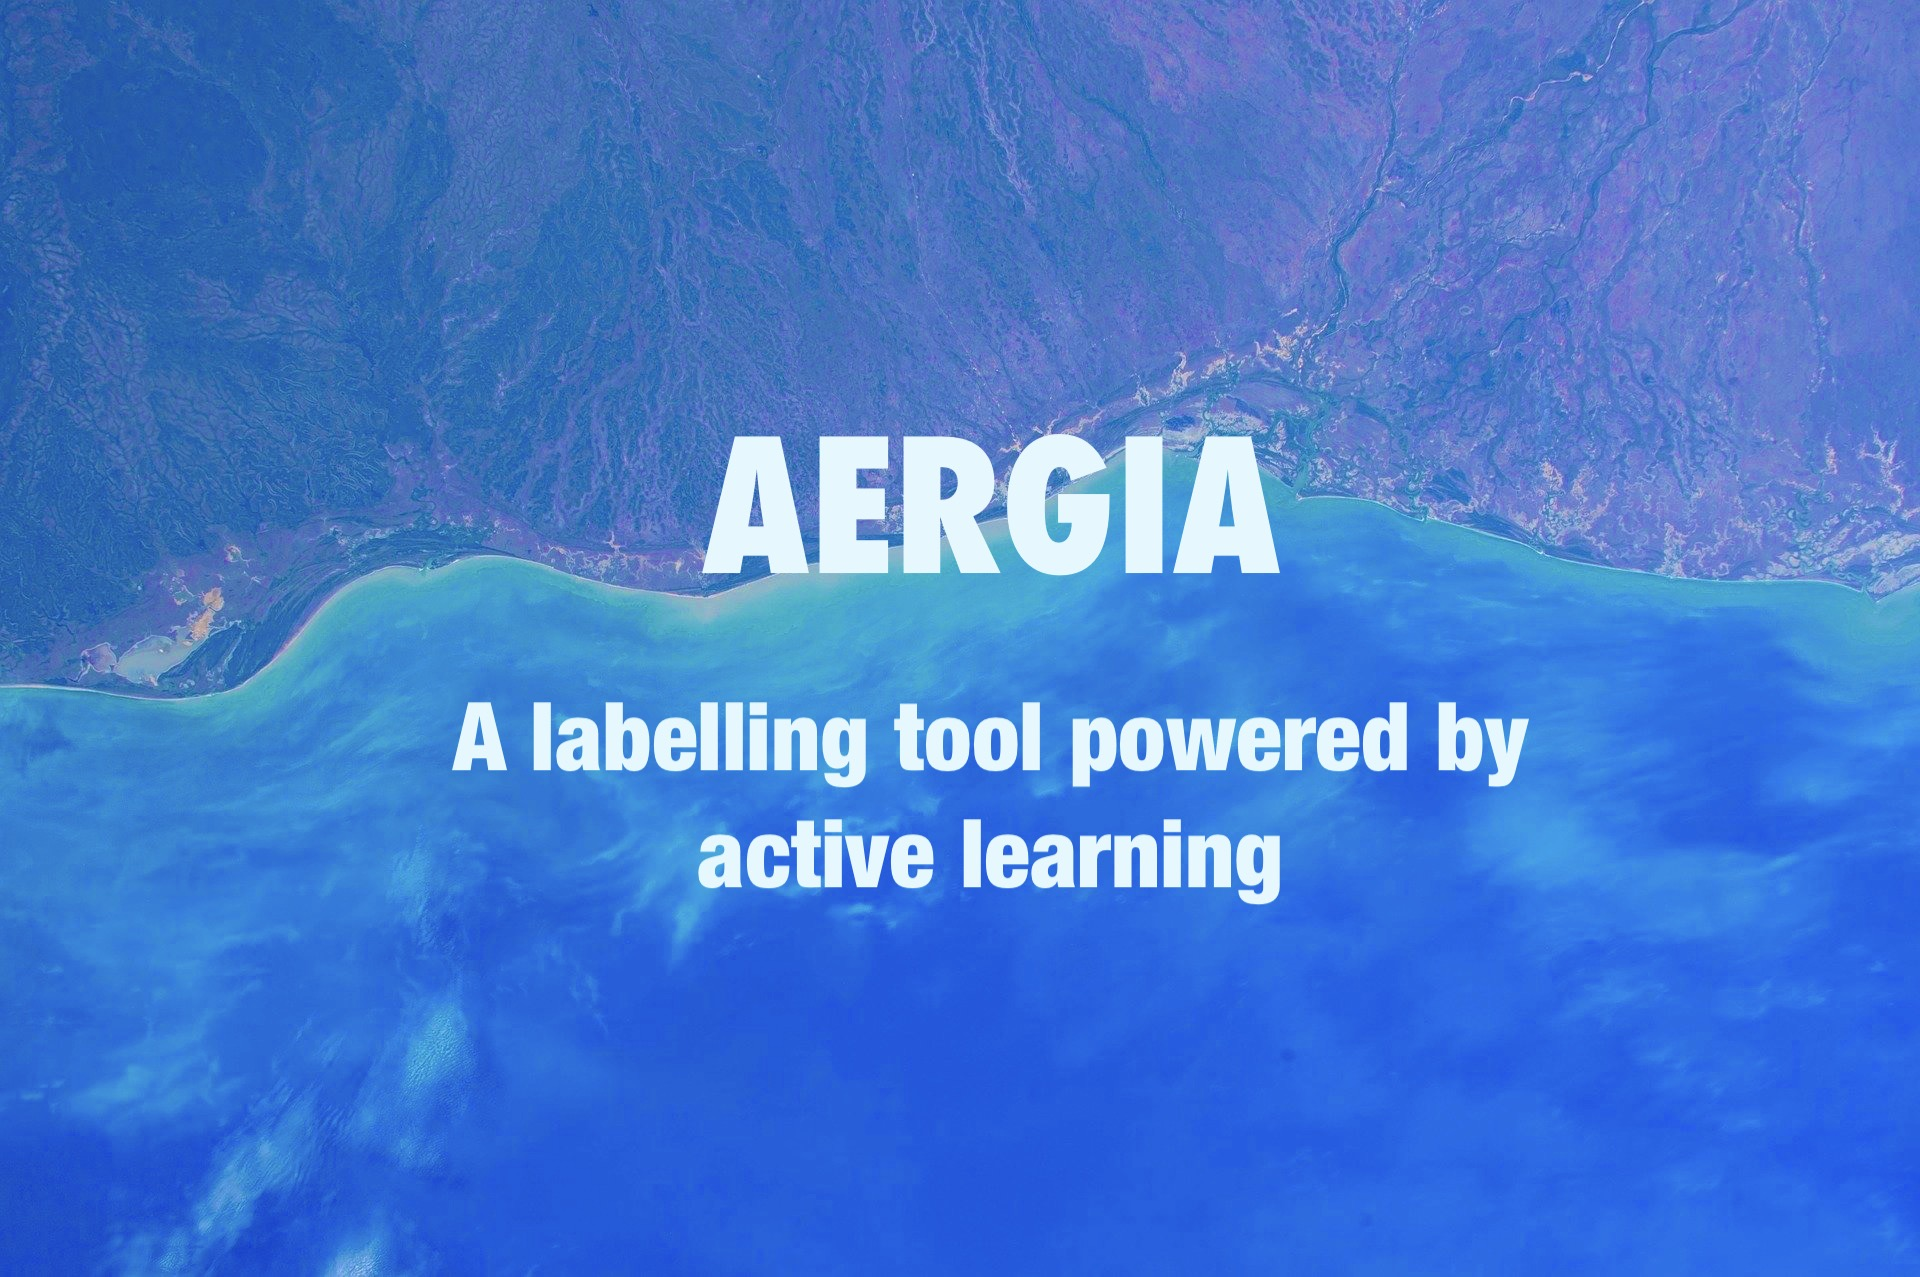
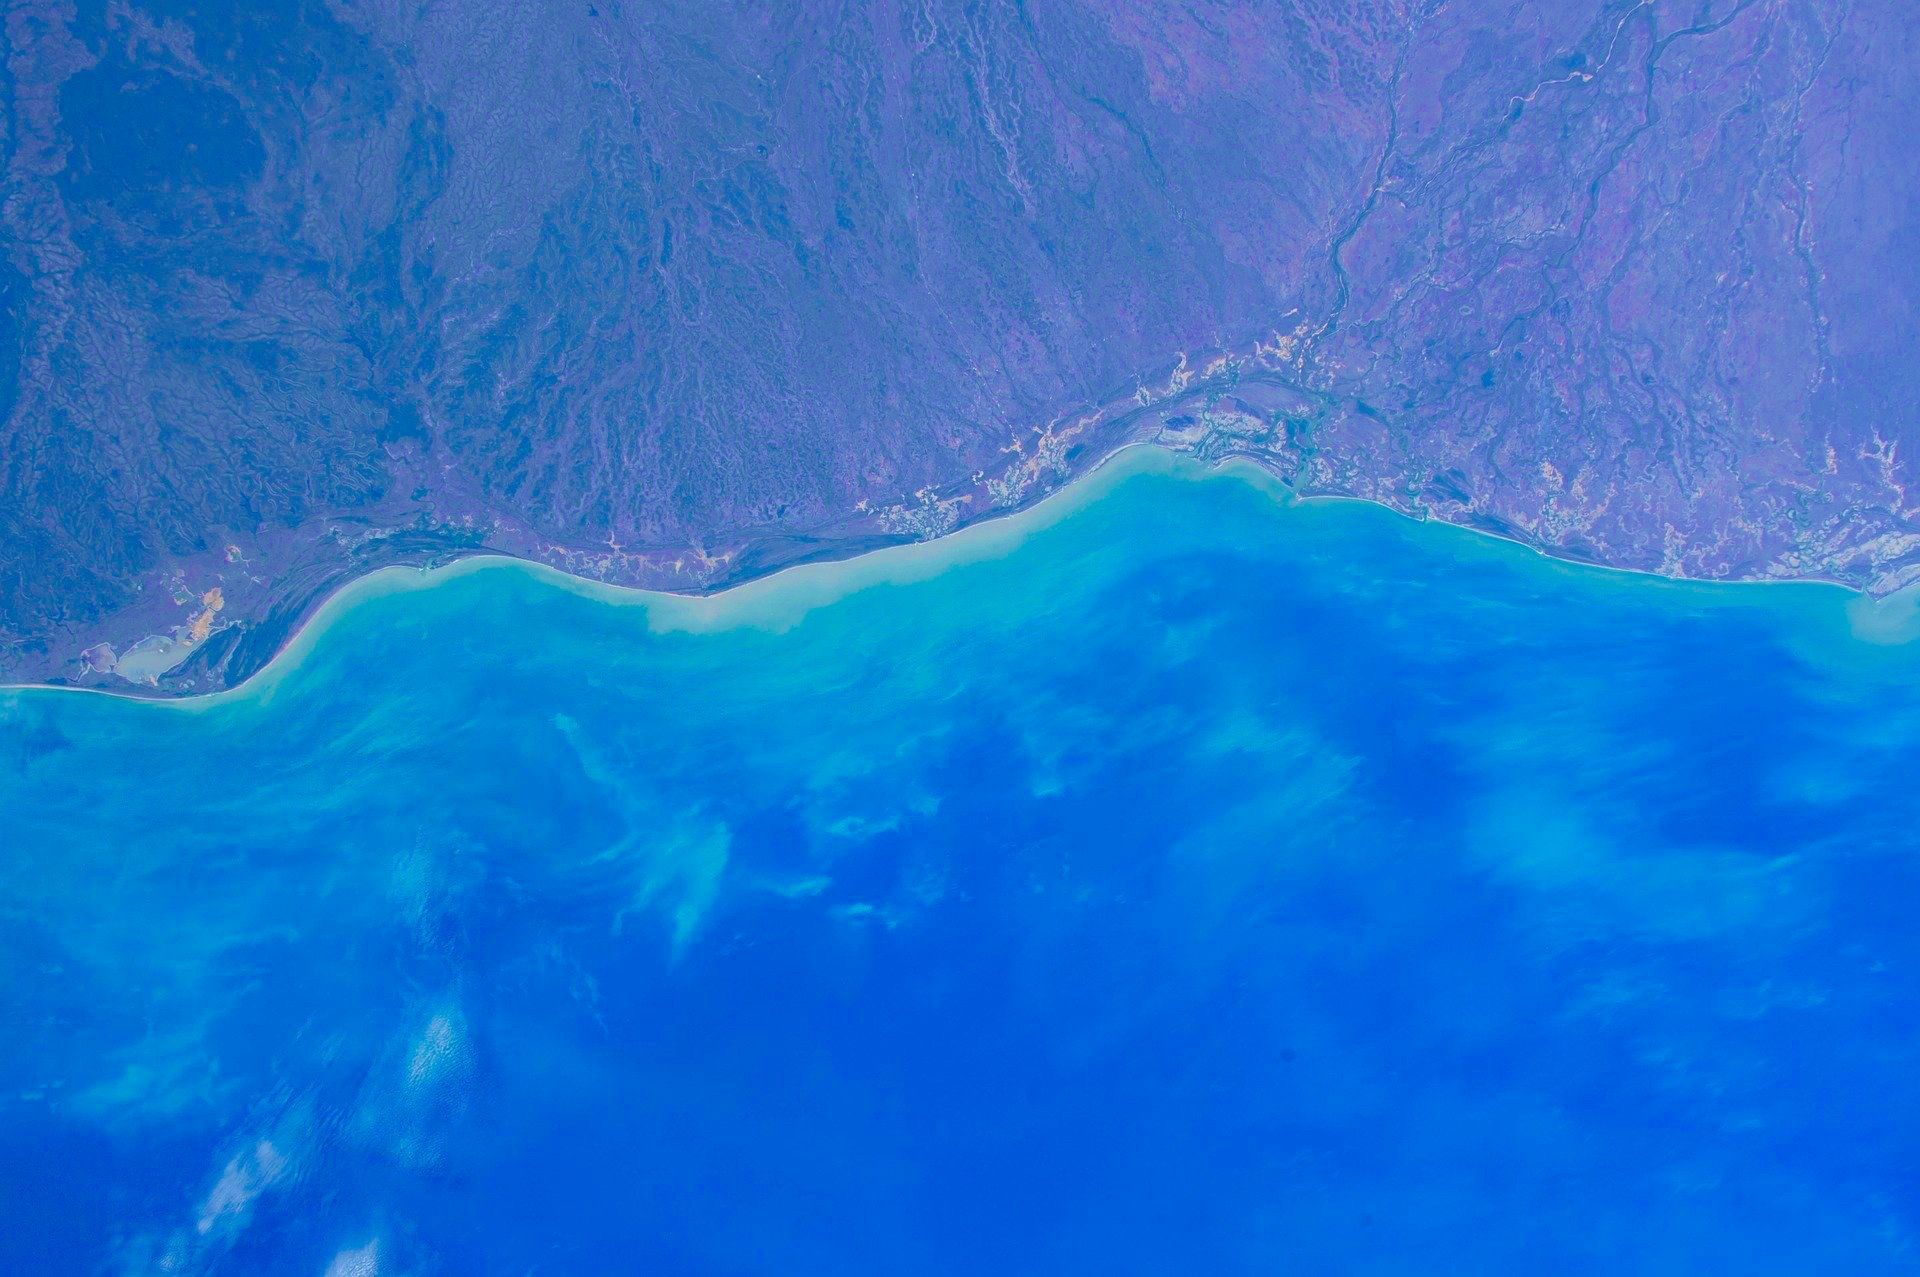
change the home page and add real text

diff --git a/frontend/src/components/home-page/HomePage.vue b/frontend/src/components/home-page/HomePage.vue
@@ -1,18 +1,24 @@
 /* eslint-disable prettier/prettier */
 <template>
     <div>
-        <img src="../../assets/hp.jpeg" class="back"/>
+        <div class="ima">
+            <img src="../../assets/hp.jpeg" class="back" />
+            <div class="centered">AERGIA</div>
+            <div class="bottom">
+                a labelling tool powered by <br />active learning
+            </div>
+        </div>
         <div class="para">
             <h1 class="tit">What Is AERGIA</h1>
-            <hr class="intro"/>
+            <hr class="intro" />
             <p class="intro">
                 Aergia is an innovative labbelling tool powered by active
                 learning. It can label DWTC, CIFAR, equations and religious
-                text.Aergia is an innovative labbelling tool powered by
-                active learning. It can label DWTC, CIFAR, equations and
-                religious text.Aergia is an innovative labbelling tool
-                powered by active learning. It can label DWTC, CIFAR,
-                equations and religious text.
+                text.Aergia is an innovative labbelling tool powered by active
+                learning. It can label DWTC, CIFAR, equations and religious
+                text.Aergia is an innovative labbelling tool powered by active
+                learning. It can label DWTC, CIFAR, equations and religious
+                text.
             </p>
         </div>
         <div class="con">
@@ -20,33 +26,30 @@
                 <div class="column "></div>
                 <div class="column">
                     <img
-                            class="image is-96x96 i "
-                            src="../../assets/hp_label.png"
+                        class="image is-96x96 i "
+                        src="../../assets/hp_label.png"
                     />
                     <b-button class="btn" type="is-dark" outlined
-                    >Start Label
-                    </b-button
-                    >
+                        >Start Label
+                    </b-button>
                 </div>
                 <div class="column">
                     <img
-                            class="image is-96x96 i"
-                            src="../../assets/hp_browse.png"
+                        class="image is-96x96 i"
+                        src="../../assets/hp_browse.png"
                     />
                     <b-button class="btn" type="is-dark" outlined
-                    >Browse
-                    </b-button
-                    >
+                        >Browse
+                    </b-button>
                 </div>
                 <div class="column">
                     <img
-                            class="image is-96x96 i"
-                            src="../../assets/hp_upload.png"
+                        class="image is-96x96 i"
+                        src="../../assets/hp_upload.png"
                     />
                     <b-button class="btn" type="is-dark" outlined
-                    >Upload
-                    </b-button
-                    >
+                        >Upload
+                    </b-button>
                 </div>
                 <div class="column "></div>
             </div>
@@ -55,53 +58,76 @@
 </template>
 
 <script scoped lang="ts">
-    export default {
-        name: "HomePage",
-        components: {},
-        mounted(): void {
-            this.$store.commit('setDatasetType', "none")
-            this.$store.commit('toggleIsHomePage', true)
-        }
-    };
+export default {
+    name: "HomePage",
+    components: {},
+    mounted(): void {
+        this.$store.commit("setDatasetType", "none");
+        this.$store.commit("toggleIsHomePage", true);
+    }
+};
 </script>
 
 <style lang="scss">
-    .con {
-        margin-top: 70px;
-        margin-left: 15%;
-        margin-right: 10%;
-        margin-bottom: 30px;
-    }
+.ima {
+    position: relative;
+    text-align: center;
+    color: white;
+}
+.centered {
+    position: absolute;
+    top: 40%;
+    left: 50%;
+    font-size: 75pt;
+    font-family: Helvetica;
+    font-weight: bold;
+    transform: translate(-50%, -50%);
+}
+.bottom {
+    transform: translate(-50%, -50%);
+    position: absolute;
+    top: 63%;
+    left: 50%;
+    font-size: 35pt;
+    font-family: Helvetica;
+    font-weight: bold;
+}
+.con {
+    margin-top: 70px;
+    margin-left: 15%;
+    margin-right: 10%;
+    margin-bottom: 30px;
+}
 
-    .intro {
-        text-align: center;
-        font-size: x-large;
-        font-weight: bold;
-        margin-left: 30%;
-        margin-right: 30%;
-        margin-top: 10px;
-    }
+.intro {
+    text-align: center;
+    font-size: x-large;
+    font-weight: bold;
+    margin-left: 30%;
+    margin-right: 30%;
+    margin-top: 10px;
+}
 
-    .tit {
-        text-align: center;
-        font-size: xxx-large;
-    }
+.tit {
+    text-align: center;
+    font-size: xxx-large;
+}
 
-    .intro {
-        position: relative;
-        text-align: center;
-    }
+.intro {
+    position: relative;
+    text-align: center;
+}
 
-    .btn {
-        position: relative;
-        margin-top: 50px;
-        margin-left: 10px;
-    }
+.btn {
+    position: relative;
+    margin-top: 50px;
+    margin-left: 10px;
+}
 
-    .back {
-        position: relative;
-        width: 100%;
-        height: 600px;
-        opacity: 1;
-    }
+.back {
+    position: relative;
+    width: 100%;
+    height: 600px;
+    opacity: 1;
+}
 </style>

diff --git a/frontend/src/App.vue b/frontend/src/App.vue
@@ -8,7 +8,7 @@
         <Footer
             title="AERGIA"
             homepage="https://wwwdb.inf.tu-dresden.de/"
-            author="by Dresden Database Systems Group"
+            author="Dresden Database Systems Group"
             class="foot"
         />
     </div>
